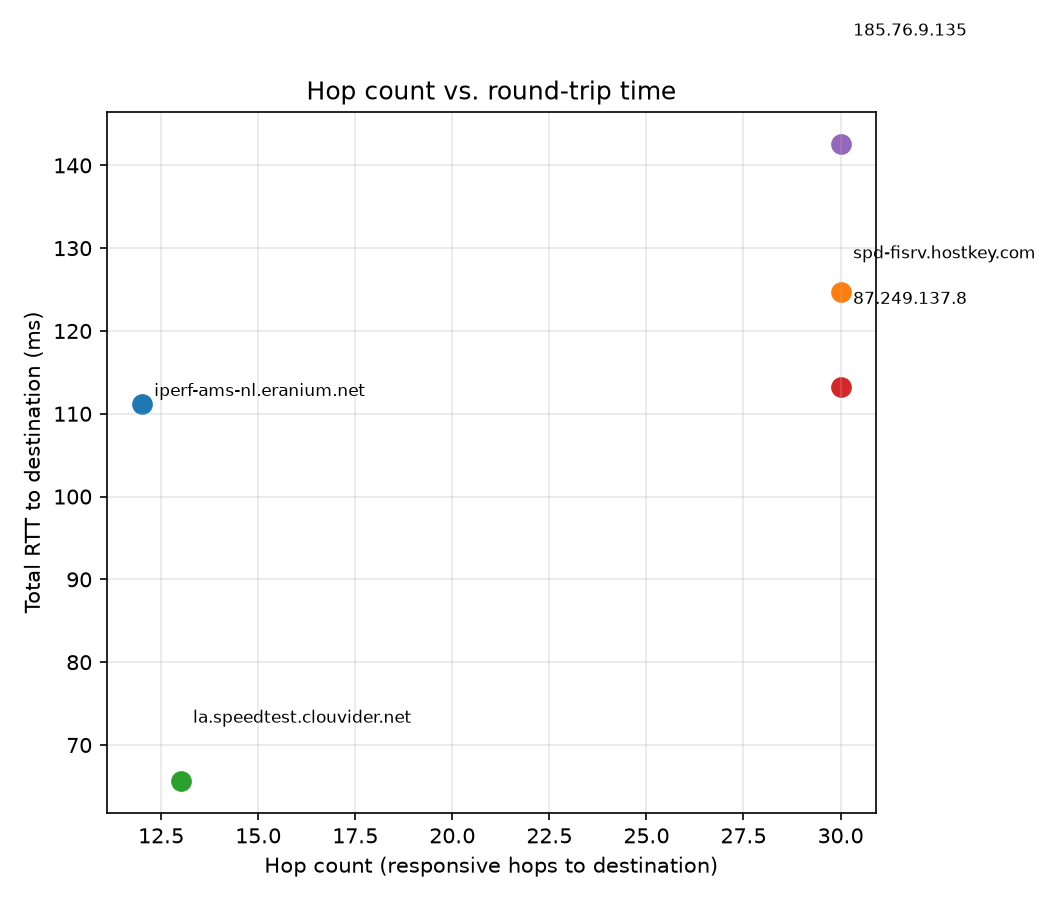
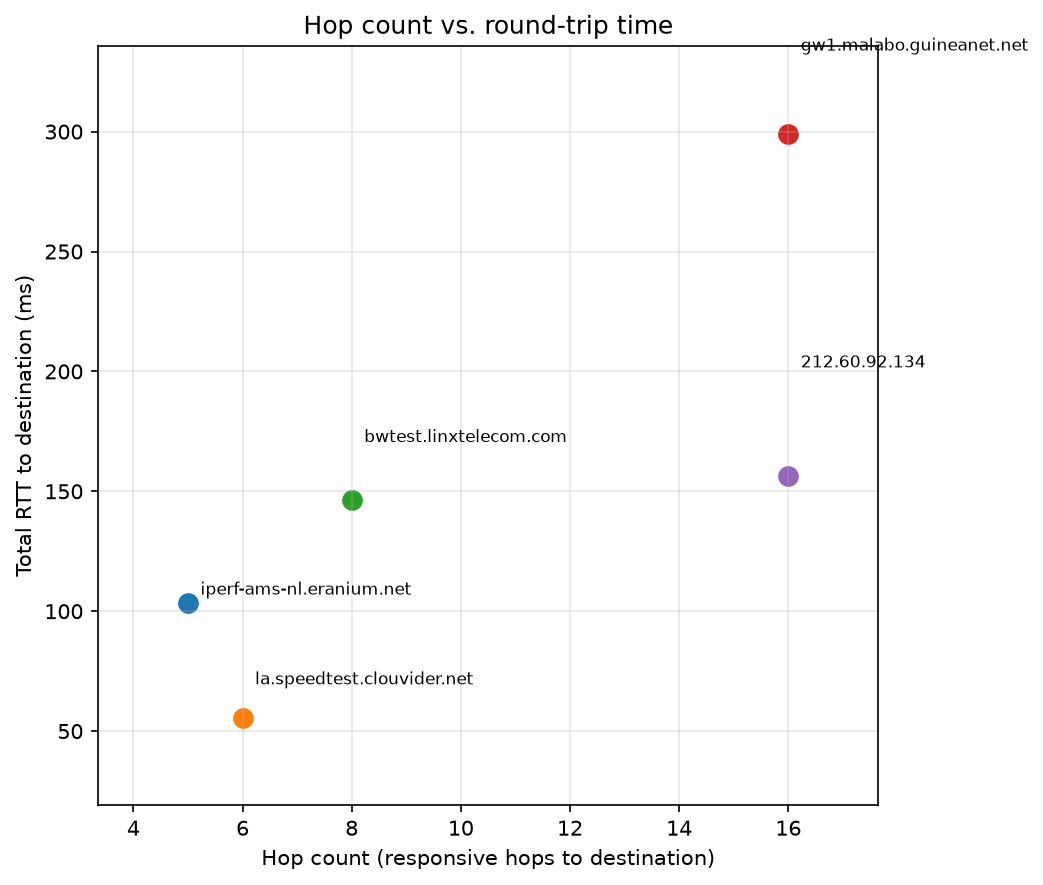
fix two part 2 charts

diff --git a/part_2.py b/part_2.py
@@ -38,7 +38,7 @@ def part_2(df, num_rows=5, max_hops=30):
             if len(latencies) < cur_hop:
                 latencies.append([])
 
-            for latency_str in items[1:]:
+            for latency_str in items:
                 if latency_str.count(".") > 1:
                     hop_ips.append(latency_str)
                     continue
@@ -57,14 +57,17 @@ def part_2(df, num_rows=5, max_hops=30):
         # for part (c)
         num_hops = cur_hop
 
-        if num_hops > max_hops or (hop_ips and row["IP/HOST"] != hop_ips[-1]):
+        if num_hops > max_hops:
             print("Status: Non-responsive")
             print()
             continue
 
         # calculate latency diff between each hop
-        per_hop_latencies = np.diff(np.array([0] + avg_latencies)).tolist()
-        per_hop_latencies = [max(0, lat) for lat in per_hop_latencies]
+        per_hop_latencies = []
+        prev = 0.0
+        for lat in avg_latencies:
+            per_hop_latencies.append(max(0.0, lat - prev))
+            prev = max(prev, lat)
 
         final_latency = avg_latencies[-1]
 
@@ -101,8 +104,9 @@ def plot_scatter(mapping, path="scatter_hopcount_rtt.png"):
     ax.set_ylabel("Total RTT to destination (ms)")
     ax.set_title("Hop count vs. round-trip time")
     ax.grid(True, alpha=0.3)
+    ax.margins(0.15)
     plt.tight_layout()
-    plt.savefig(path, dpi=150)
+    plt.savefig(path, dpi=150, bbox_inches="tight")
     plt.close()
     print(f"[*] Saved {path}")
 
@@ -119,7 +123,7 @@ def plot_stacked_bar(mapping, path="stacked_bar_latencies.png"):
     for hops in per_hop_latencies:
         # pad the end with zeros so that the dataframe will be rectangular
         padded = hops + [0] * (max_hops - len(hops))
-        padded_latencies.append(hops)
+        padded_latencies.append(padded)
 
     columns = [
         "IP Address",
